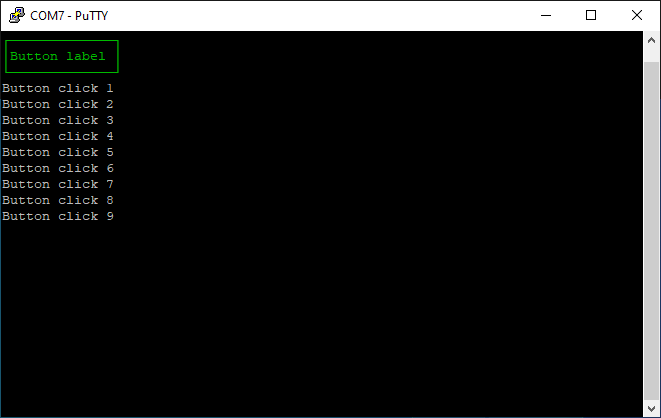
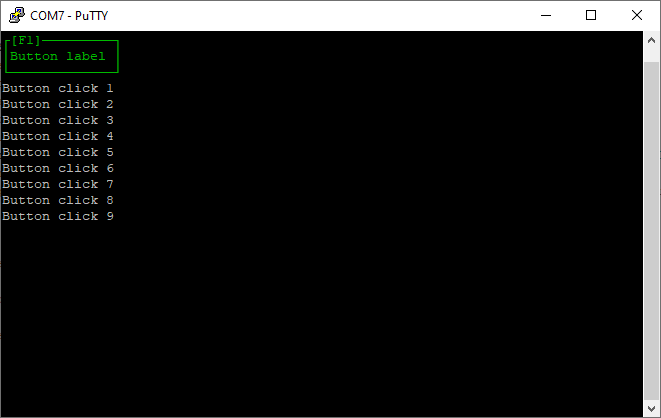
Add a shortcut key in Example 04

Changed region(s): [[0.0, 0.0, 1.0, 1.0], [0.0, 0.0622, 0.0605, 0.1244], [0.0, 0.0, 0.0303, 0.0311]]

diff --git a/readme.md b/readme.md
@@ -1,8 +1,8 @@
 # retroTerm
 
-retroTerm is an Arduino library for creating user interfaces in a terminal emulator.
+retroTerm is an Arduino library for creating user interfaces in a terminal emulator for a microcontroller.
 
-Now that many microcontrollers have Bluetooth or Wi-Fi it might seem superfluous but there are many examples that do not and occasions when you want to configure or interact with them without having a network available.
+Now that many microcontrollers have Bluetooth or Wi-Fi it might seem superfluous but there are also many that do not and occasions when you want to configure or interact with them without having a network available.
 
 retroTerm allows you to create clickable 'buttons', 'checkboxes', 'option lists' and so on plus also simple line editing of text.
 
@@ -43,7 +43,8 @@ This project was originally created to help with making a fake 'mainframe' that 
 - Limit scrolling to certain regions
 - Set various character colours/attributes
 - Print at specific co-ordinates
-- Enable 'capture' of the mouse and respond to clicks
+- Draw boxes
+- Enable 'capture' of the mouse and record clicks
 
 ### Widget features
 
@@ -53,9 +54,13 @@ Creation and management of GUI-esque objects
 * Checkboxes
 * Radio buttons
 * Option lists
-* Text boxes with line editing of text with support for 'expected' features like home/end/insert/delete
+* Text boxes (editable text) single line editing of text, with support for 'expected' behaviour like home/end/insert/delete and the arrow keys
 * Text boxes (fixed text) with scrollbars, word wrapping and basic markdown support
-* Text boxes (changing text) for 'logging'
+* Text boxes (changing text) for 'logging' windows that scroll content
+* Keyboard shortcuts for use without a mouse
+* Basic styling for widget outlines/labels
+
+As you might expect, this library can use a lot of working memory. There is explicit support for storing strings in flash memory using the F() macro. You should use this whenever possible for things like labels on buttons that will not change.
 
 **[Back to top](#table-of-contents)**
 
@@ -119,6 +124,7 @@ void setup() {
   terminal.enableMouse(); //Capture the mouse so it can be used with widgets
   terminal.setScrollWindow(4,12); //Set up somewhere to show the events without disrupting the button
   buttonId = terminal.newButton(1, 1, 15, 3, F("Button label"), COLOUR_GREEN, OUTER_BOX | BOX_SINGLE_LINE); //Create a green button in a box
+  terminal.widgetShortcutKey(buttonId,f1Pressed); //Assign a shortcut key of F1
   terminal.showWidget(buttonId); //Make the button visible, all widgets start 'invisible' for later display
 }
 
@@ -133,7 +139,7 @@ void loop() {
 
 It includes the library then assigns a global variable for the widget. Widgets have simple numeric IDs from 1-255, 0 is considered invalid. If you delete a button its ID may be re-used.
 
-Effective setup for displaying widgets needs a few steps.
+Effective setup for displaying widgets needs quite a few steps, but is then simpler to interact with.
 
 - Pass the library the Stream used for display. Normally this is 'Serial' but it could be another Stream, for example Serial2.
 - Erase the screen to clear any mess from startup. Not necessary on all microcontrollers but ESP8266 & ESP32 output boot messages.
@@ -141,6 +147,7 @@ Effective setup for displaying widgets needs a few steps.
 - Enable the mouse, otherwise you will have to rely on keyboard shortcuts for interaction.
 - Set a scroll window. This is not a widget, but reduces the scrolling region of the terminal, making for trivial diagnostic/logging output.
 - Create the widget.
+- Assign a shortcut key to the widget. If you press the shortcut key it registers as a 'click'.
 - Make the widget visible.
 
 Once in the loop all it does is.
